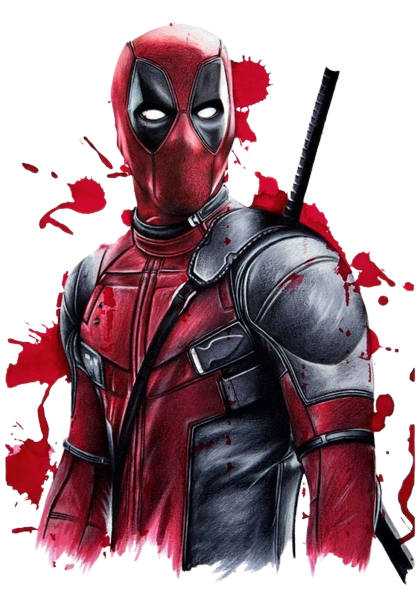
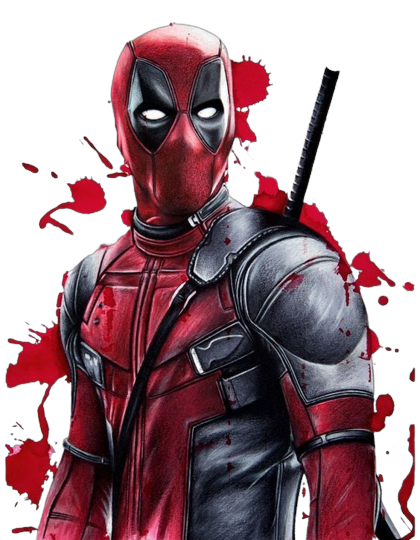
scroll function and header styling

diff --git a/style.css b/style.css
@@ -39,6 +39,12 @@ body {
   display: flex;
   align-items: center;
   z-index: 100;
+  transition: .5s;
+}
+
+.header.sticky{
+  background: var(--bg-color);
+  box-shadow: 0 .1rem 1re, var(--shadow-color);
 }
 
 .logo {
@@ -57,6 +63,14 @@ body {
   margin-right: 3.5rem;
 }
 
+.header.sticky .navbar a {
+  color: var(--text-color);
+}
+
+.header.sticky .navbar a.active{
+  color: var(--main-color);
+}
+
 .navbar a.active::before {
   content: "";
   position: absolute;
@@ -71,6 +85,9 @@ body {
   font-size: 2.4rem;
   color: var(--white-color);
   cursor: pointer;
+}
+.header.sticky #darkMode-icon{
+  color: var(--main-color);
 }
 
 section {
@@ -222,9 +239,10 @@ section {
 .home-img img{
   position: absolute;
   right: 0;
+  bottom: 0;
   pointer-events: none;
   padding-right: 10rem;
-  top: 15rem;
+  /* top: 21.6rem; */
 }
 
 span {
@@ -260,6 +278,4 @@ span {
 .about-content p {
   font-size: 1.6rem;
   margin: 2rem 0 3rem;
-
-
 }

diff --git a/index.html b/index.html
@@ -19,7 +19,7 @@
 
       <nav class="navbar">
         <a href="#" class="active">Home</a>
-        <a href="#">About</a>
+        <a href="#about">About</a>
         <a href="#">Services</a>
         <a href="#">Contact</a>
       </nav>
@@ -77,7 +77,7 @@
       </div>
     </section>
 
-    <section class="about">
+    <section class="about" id="about">
       <div class="about-img">
         <img src="./images/about-removebg-preview.png" alt="" />
       </div>

diff --git a/script.js b/script.js
@@ -1,0 +1,4 @@
+window.onscroll = () =>{
+const header = document.querySelector('.header');
+header.classList.toggle('sticky',window.scrollY>100);
+};
